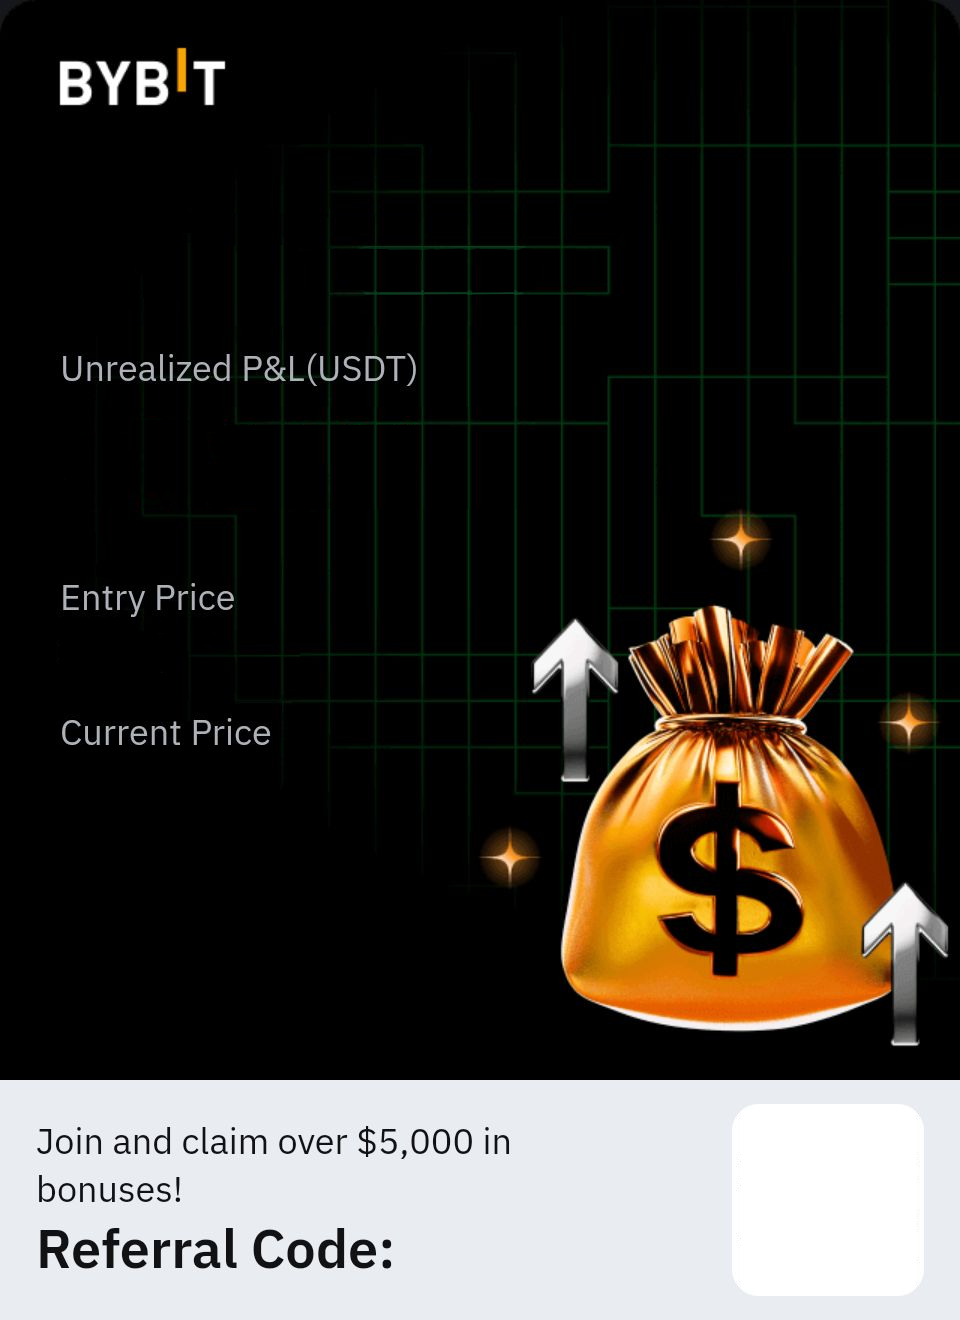
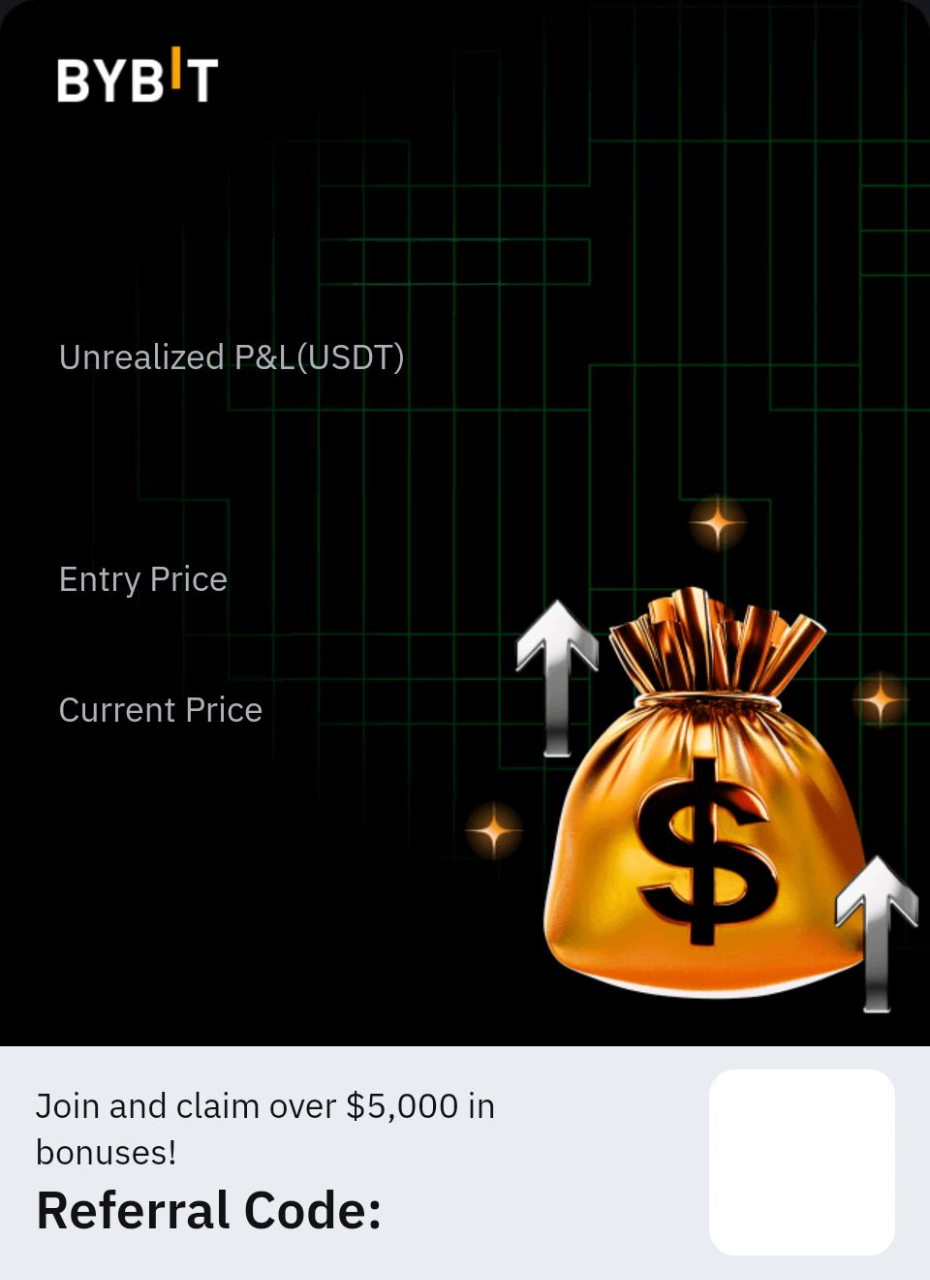
FEAT: Fixed bybit_5 positioning

diff --git a/static/styling_dict.py b/static/styling_dict.py
@@ -620,7 +620,7 @@ styling_dict = {
     },
     "bybit_5": {
         "symbol_signal_type_leverage": ElementStyling(
-            position=Position(x=0.11557822714046556, y=0.28155628506316893),
+            position=Position(x=0.061272405808971774, y=0.16906249523162842),
             symbol_font="IBMPlexSans-SemiBold.ttf",
             symbol_font_size=60,
             gap=23,
@@ -635,31 +635,31 @@ styling_dict = {
             long_box_color="#2f483355",
         ),
         "roi_dollars": ElementStyling(
-            position=Position(0.065, 0.3),
+            position=Position(x=0.06231182467552923, y=0.299609375),
             font="IBMPlexSans-SemiBold.ttf",
-            font_size=95,
+            font_size=93,
             color="#21b672",
         ),
         "entry": ElementStyling(
-            position=Position(0.063, 0.468),
+            position=Position(x=0.06353046048072077, y=0.4691666722297668),
             font="IBMPlexSans-SemiBold.ttf",
-            font_size=45,
+            font_size=43,
             color="white",
         ),
         "target": ElementStyling(
-            position=Position(0.063, 0.57),
+            position=Position(x=0.06299282607211862, y=0.5707812547683716),
             font="IBMPlexSans-SemiBold.ttf",
-            font_size=45,
+            font_size=43,
             color="white",
         ),
         "referral": ElementStyling(
-            position=Position(0.425, 0.919),
+            position=Position(x=0.4244623655913978, y=0.9193880081176757),
             font="IBMPlexSans-Medium.ttf",
-            font_size=50,
+            font_size=49,
             color="black",
         ),
         "qr": ElementStyling(
-            position=Position(x=0.7794617970784505, y=0.8483964399857955), size=161
+            position=Position(x=0.7746236821656586, y=0.8460546851158142), size=161
         ),
     },
     "bybit_todays_pnl": {
